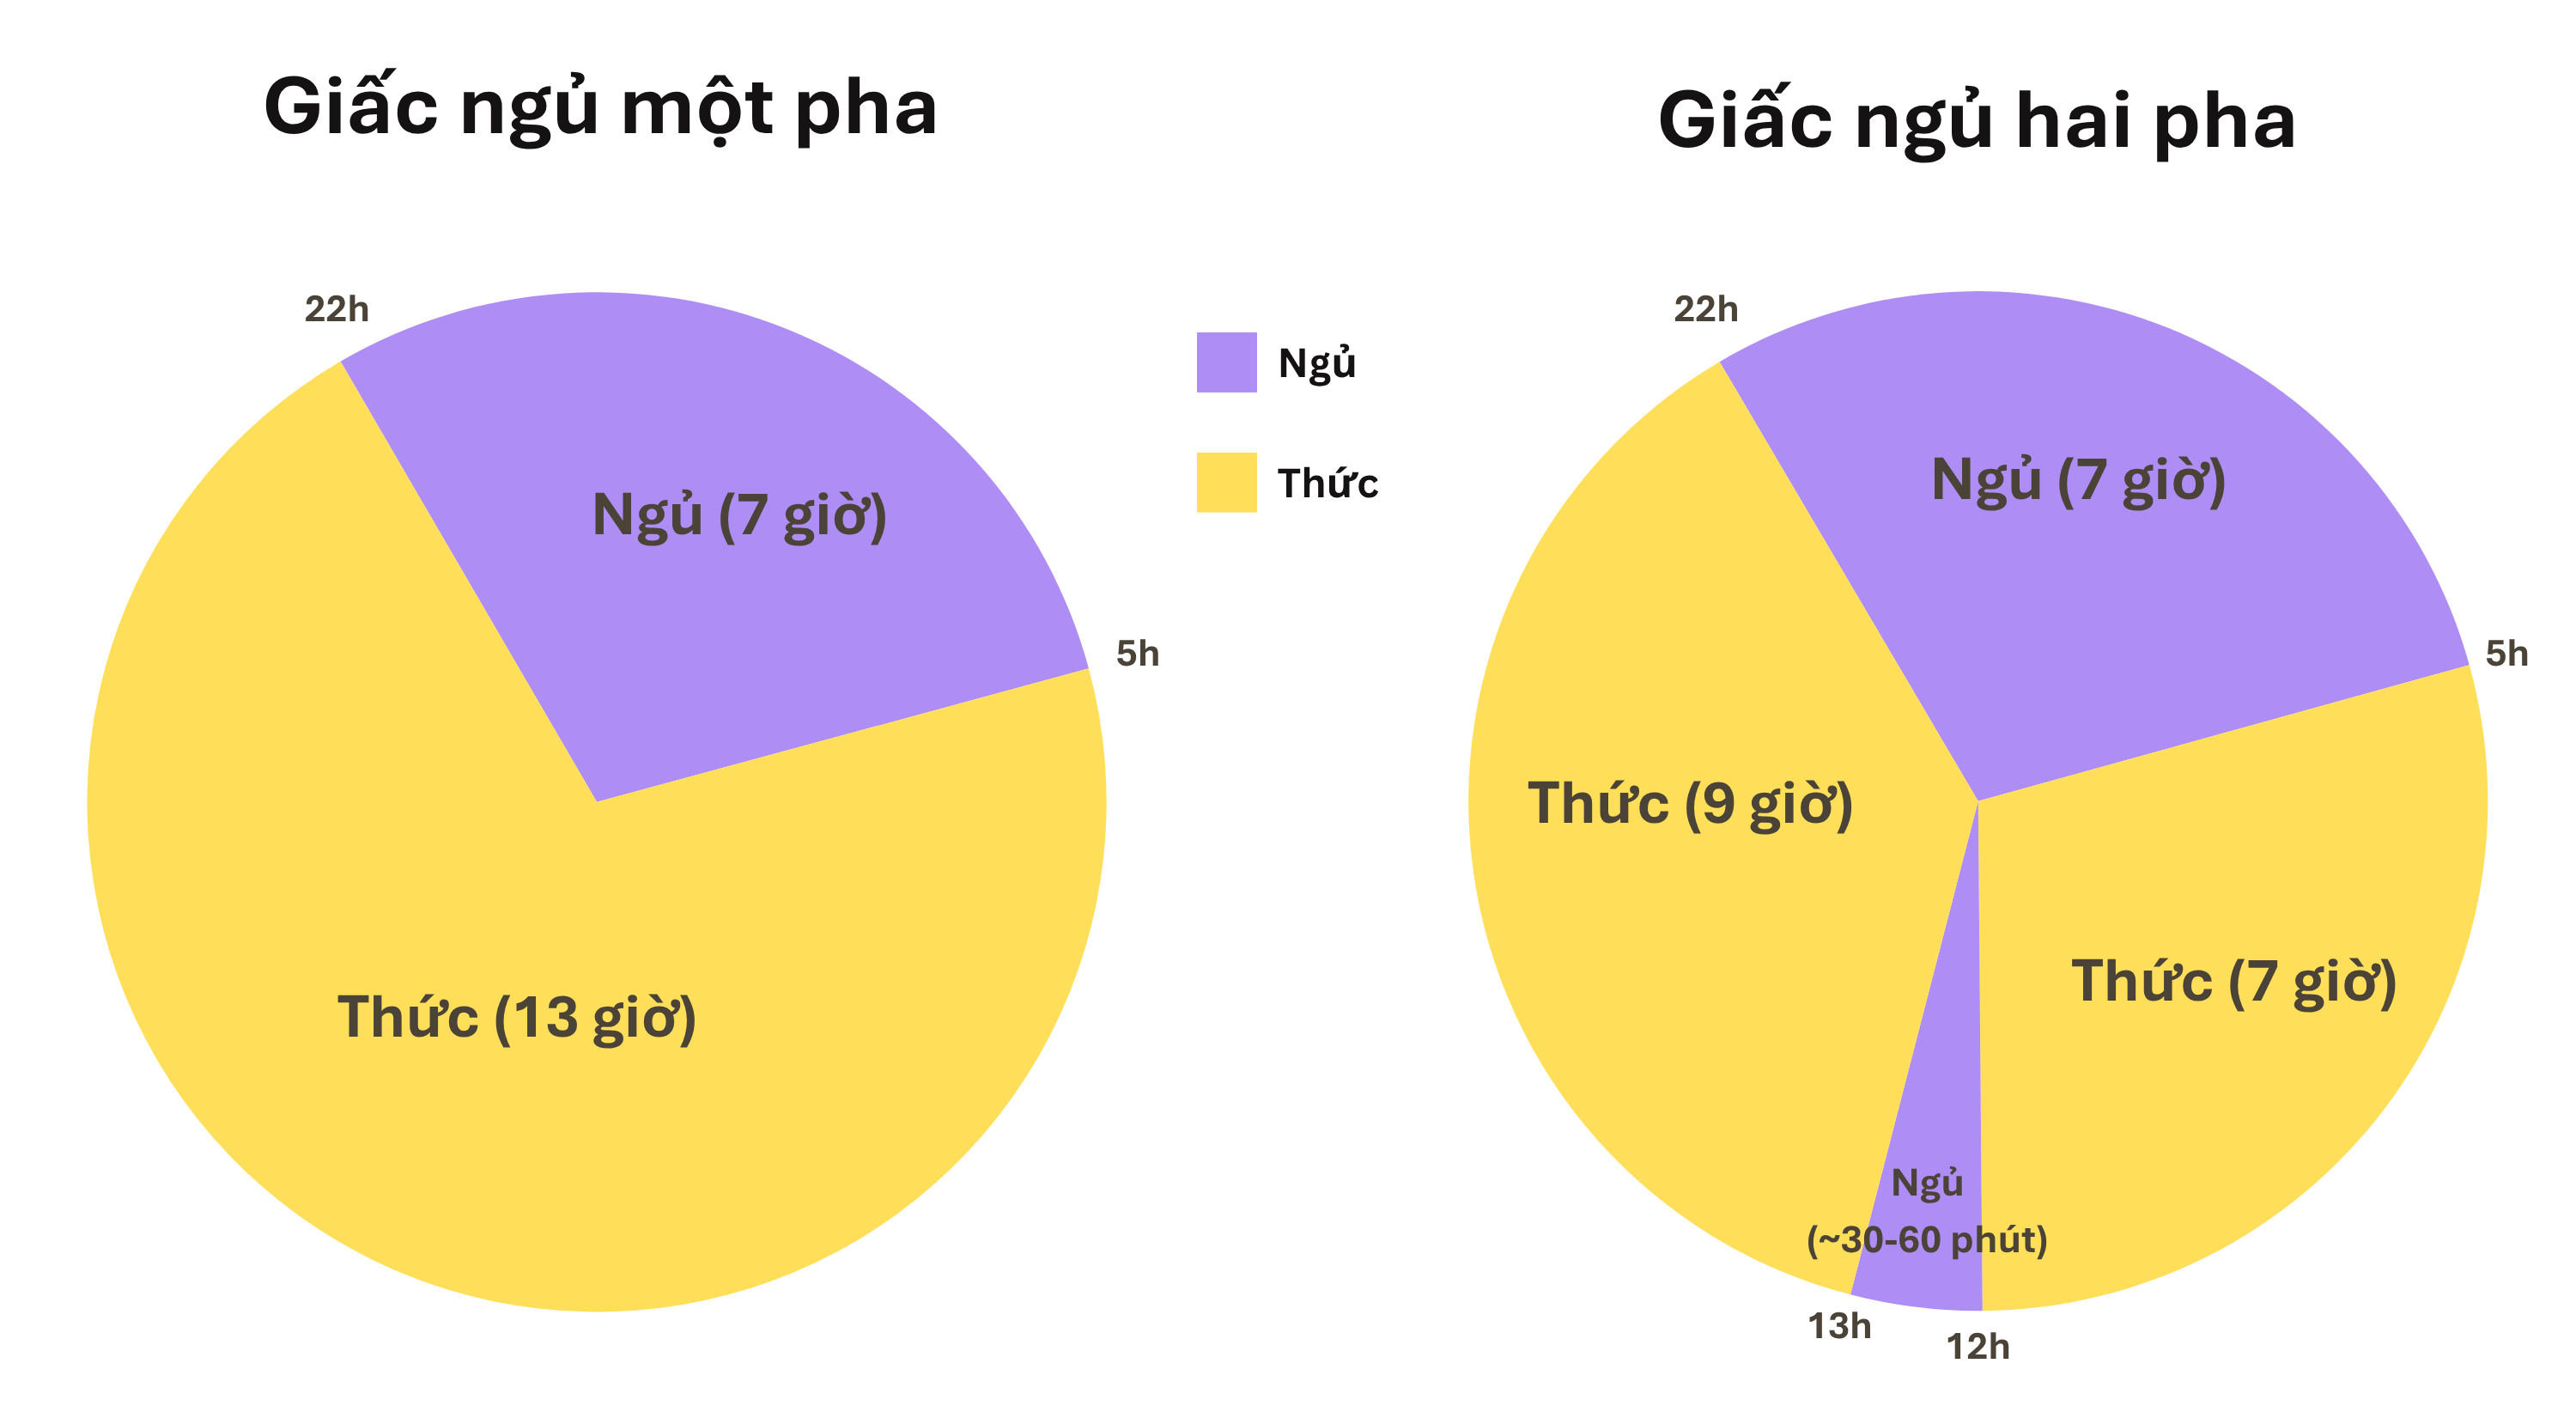
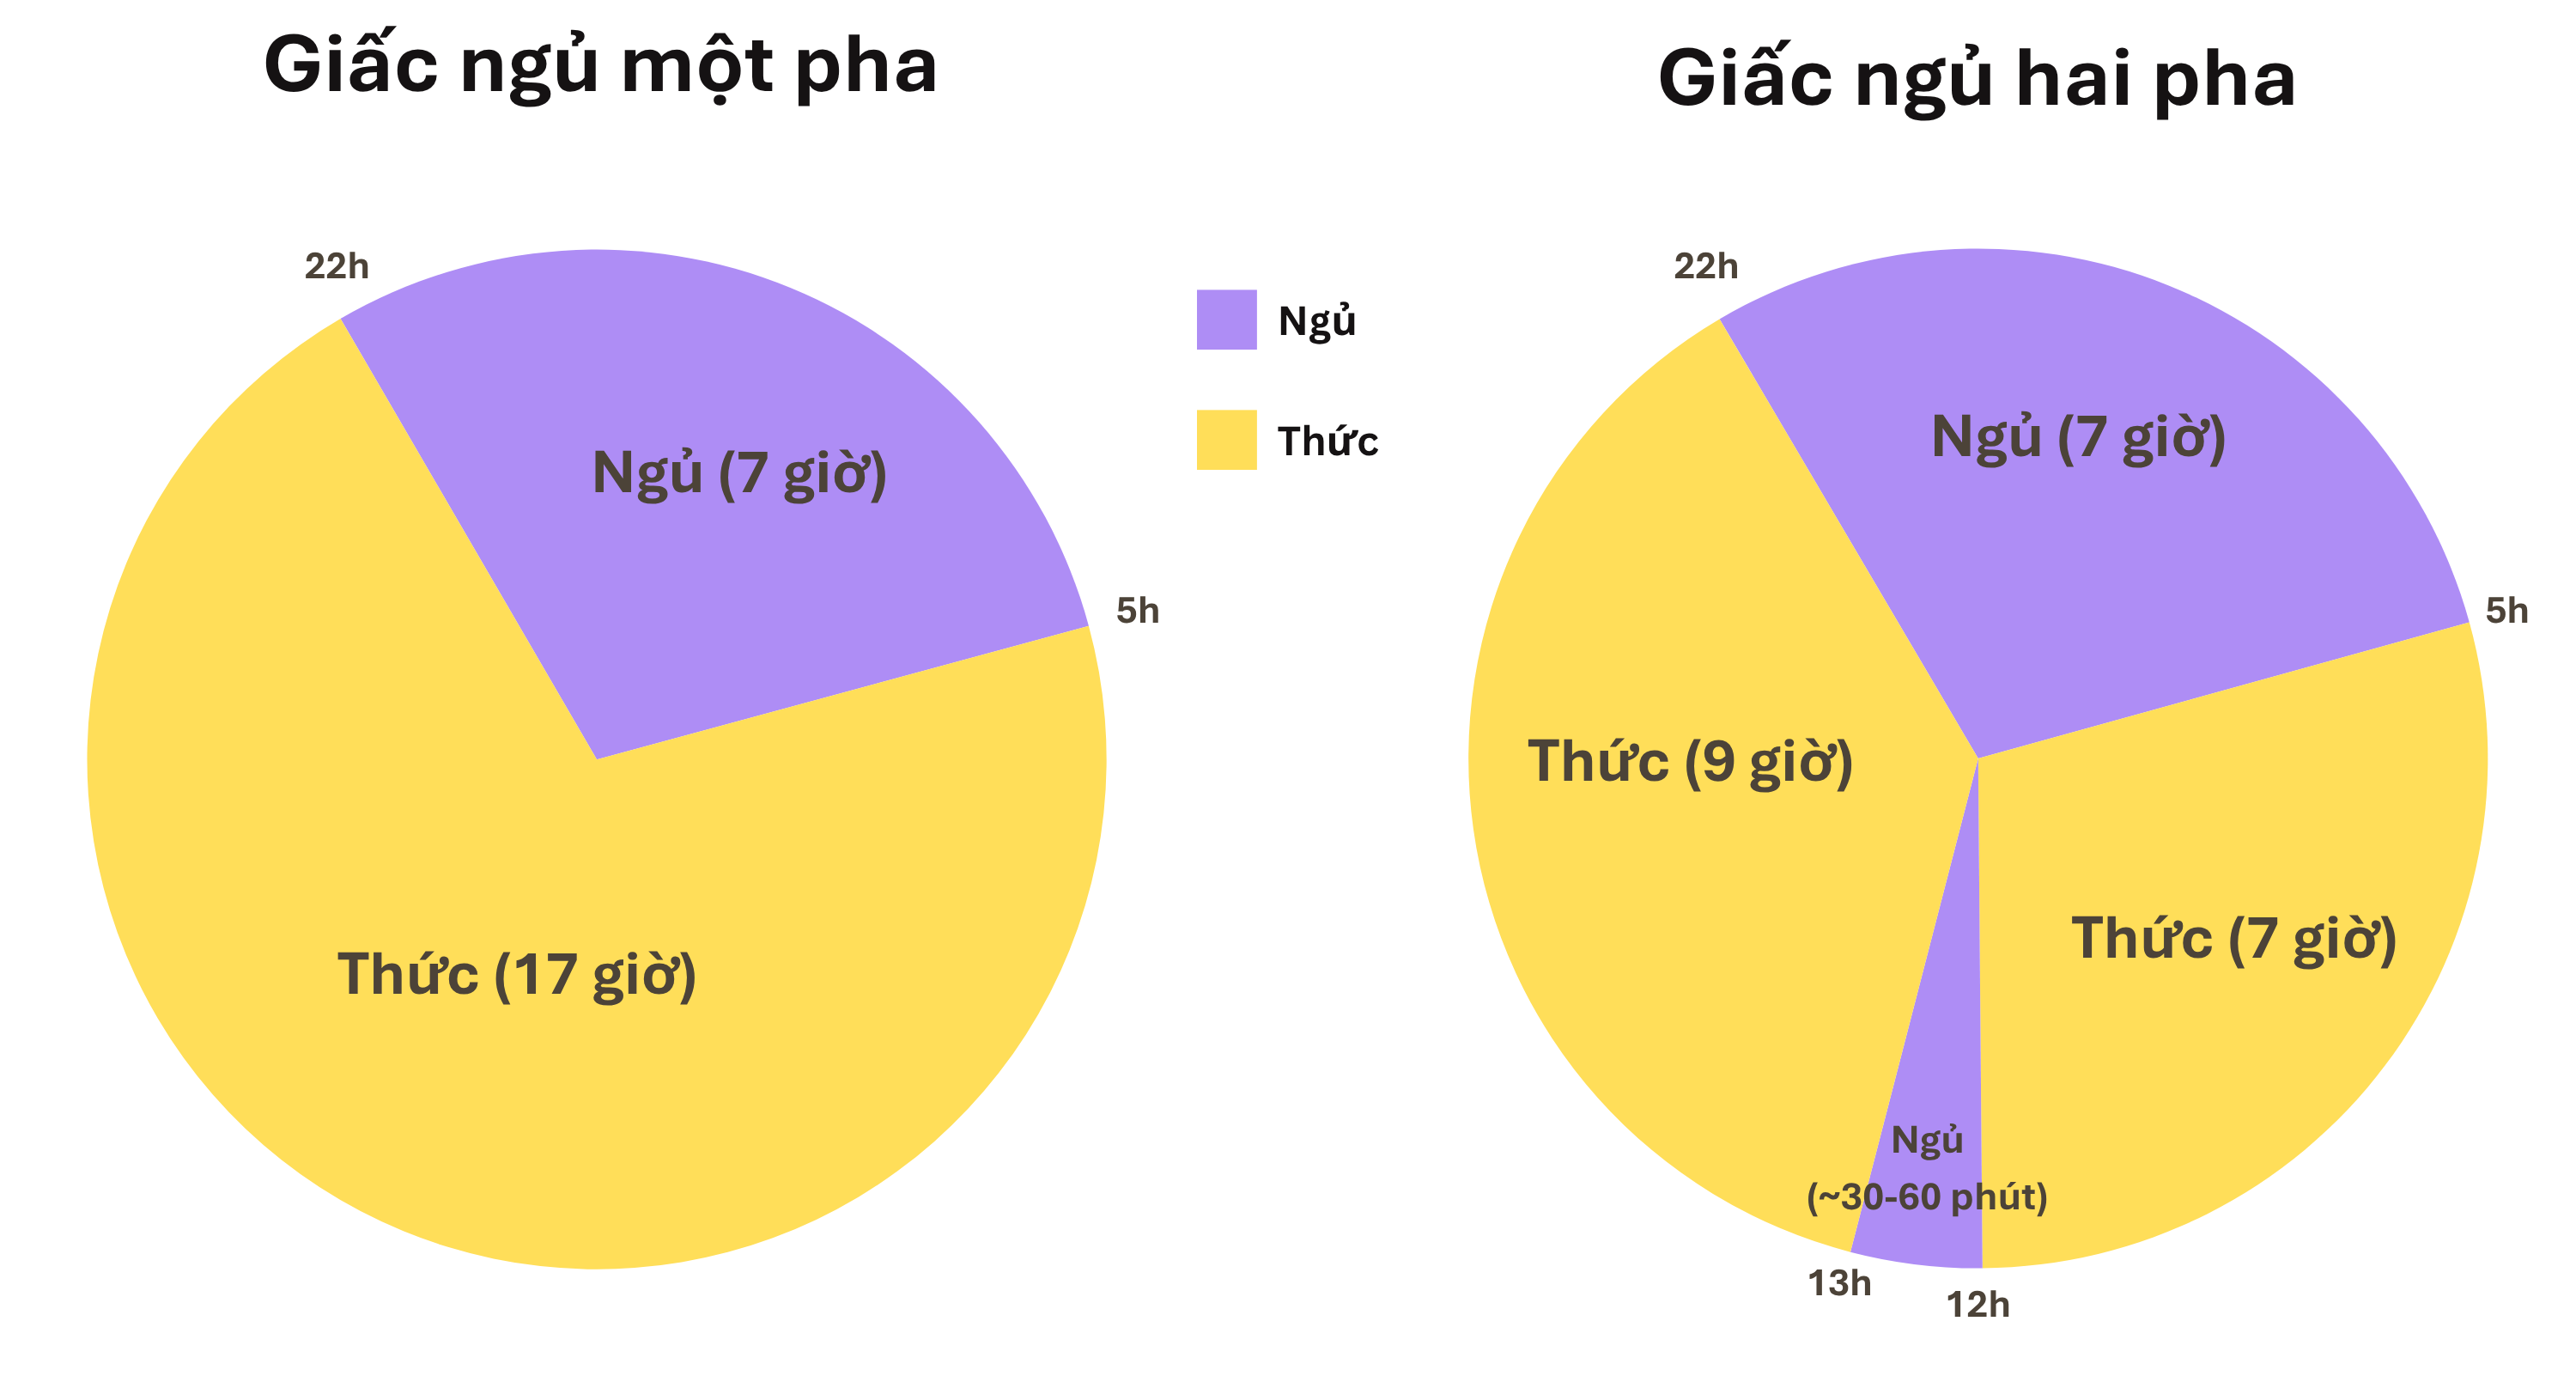
Fixing content 1

diff --git a/docs/TaiSaoChungTaNgu/index.md b/docs/TaiSaoChungTaNgu/index.md
@@ -17,7 +17,7 @@ has_children: true
 
 ## Giấc ngủ là gì?
 
-Giấc ngủ là một trạng thái sinh lý tự nhiên, có tính chu kỳ, trong đó cơ thể giảm hoạt động và mức độ ý thức bị thay đổi đáng kể. Tuy nhiên, gọi giấc ngủ là "nghỉ ngơi hoàn toàn" là không chính xác. Trên thực tế, não bộ trong khi ngủ vẫn hoạt động rất tích cực - thậm chí ở một số giai đoạn còn hoạt động mạnh không kém khi tỉnh táo.
+Giấc ngủ là một trạng thái sinh lý tự nhiên, có tính chu kỳ, trong đó cơ thể giảm hoạt động và mức độ ý thức bị thay đổi đáng kể. Tuy nhiên, gọi giấc ngủ là "nghỉ ngơi hoàn toàn" là không chính xác. Trên thực tế, não bộ trong khi ngủ vẫn hoạt động rất tích cực - thậm chí ở một số giai đoạn còn hoạt động mạnh không kém gì khi tỉnh táo.
 
 ### Mô tả thú vị về giấc ngủ
 
@@ -25,7 +25,7 @@ Từ khi sinh ra cho đến khi qua đời, con người liên tục rơi vào m
 
 Trong lúc cơ thể gần như bất động, tâm trí lại có thể tạo ra những trải nghiệm sống động - đó là giấc mơ. Những hình ảnh, âm thanh và cảm xúc trong mơ đôi khi rất phi logic, nhưng lại có sức ảnh hưởng mạnh đến tâm lý con người.
 
-Điều đáng chú ý là, dù khoa học hiện đại đã tiến rất xa, các nhà nghiên cứu vẫn chưa có một câu trả lời hoàn chỉnh cho câu hỏi: "Tại sao chúng ta cần ngủ?"
+Điều đáng chú ý là, dù khoa học hiện đại đã tiến rất xa, các nhà nghiên cứu vẫn chưa có một câu trả lời hoàn chỉnh cho câu hỏi: *"Tại sao chúng ta cần ngủ?"*.
 
 ### Bộ đặc điểm (dễ thấy) biểu thị cho sự hiện diện của giấc ngủ
 
@@ -65,21 +65,21 @@ Từ góc nhìn tiến hoá, giấc ngủ có vẻ là một "bất lợi" rõ r
 
 Với hàng loạt bất lợi như vậy, lẽ ra giấc ngủ phải bị loại bỏ qua quá trình chọn lọc tự nhiên. Nhưng thực tế hoàn toàn ngược lại: **mọi loài động vật có hệ thần kinh phức tạp đều ngủ, và thiếu ngủ có thể gây hậu quả nghiêm trọng, thậm chí tử vong.**
 
-Điều này dẫn đến kết luận quan trọng: Giấc ngủ phải mang lại những lợi ích sinh học cực kỳ thiết yếu, đủ lớn để "đánh đổi" với các rủi ro của nó.
+Điều này dẫn đến kết luận quan trọng: **Giấc ngủ phải mang lại những lợi ích sinh học cực kỳ thiết yếu, đủ lớn để "đánh đổi" với các rủi ro của nó.**
 
 ---
 
 ## Các giả thuyết về chức năng của giấc ngủ
 
-Một sai lầm phổ biến là cố gắng tìm một câu trả lời duy nhất cho câu hỏi: "Tại sao chúng ta ngủ?".
-Thực tế, **giấc ngủ không có một chức năng, mà là một tập hợp nhiều chức năng đồng thời**.
+Một sai lầm phổ biến là cố gắng tìm một câu trả lời duy nhất cho câu hỏi: *"Tại sao chúng ta ngủ?"*.
+Thực tế, **giấc ngủ không có một chức năng duy nhất, mà là một tập hợp nhiều chức năng đồng thời**.
 
 Dưới đây là một số giả thuyết tiêu biểu:
 - Bảo tồn năng lượng: Giấc ngủ giúp giảm tiêu hao năng lượng khi không cần hoạt động.
 - Phục hồi và sửa chữa cơ thể: Ngủ hỗ trợ tái tạo mô, tăng cường hệ miễn dịch, phục hồi thể chất.
 - Củng cố trí nhớ và tối ưu não bộ: Giấc ngủ giúp xử lý thông tin, học tập và ghi nhớ tốt hơn.
 - Giải phóng / xử lý cảm xúc (giấc mơ): Giấc mơ phản ánh hoặc xử lý các mong muốn, cảm xúc bị kìm nén.
-- Điều chỉnh nhịp sinh học (circadian rhythm): Giấc ngủ giúp đồng bộ cơ thể với chu kỳ ngày–đêm.
+- Điều chỉnh nhịp sinh học (circadian rhythm): Giấc ngủ giúp đồng bộ cơ thể với chu kỳ ngày - đêm.
 
 Nhưng thực ra, giấc ngủ phức tạp hơn thế. Chúng ta ngủ vì một loạt rất nhiều chức năng, dường như không một cơ quan chính nào trong cơ thể, hoặc quá trình nào trong não bộ, mà không được cải thiện tối ưu nhờ giấc ngủ, và bị suy yếu theo hướng bất lợi nếu chúng ta thiếu ngủ.
 

diff --git a/index.md b/index.md
@@ -9,22 +9,22 @@ permalink: /
 
 Sau khi đọc cuốn sách Why We Sleep của giáo sư [Matthew Walker](https://www.sleepfoundation.org/about-us/dr-matthew-walker), tôi nhận thấy mình cần tự tóm tắt lại các thông tin, kiến thức mà tôi cho là hữu ích, đồng thời mở rộng thêm một vài điểm.
 
-Tôi viết bản tóm tắt này để dành cho bản thân tôi và những người tôi quan tâm.
-Mong rằng họ sẽ có cái nhìn rộng và sâu sắc hơn về giấc ngủ, từ đó có những hành động thiết thực để cải thiện chất lượng giấc ngủ của bản thân.
-Và sẽ thật tốt hơn nếu kiến thức đó tiếp tục được lan truyền rộng rãi.
+Tôi viết bản tóm tắt này để dành cho bản thân và những người tôi quan tâm.
+Mong rằng họ sẽ có cái nhìn rộng và sâu sắc hơn về giấc ngủ, từ đó có những hành động thiết thực để cải thiện chất lượng giấc ngủ của chính mình.
+Và sẽ thật tốt nếu những kiến thức này được lan truyền rộng rãi.
 
 Trước khi dành nhiều thời gian để tìm hiểu về giấc ngủ, cách nó hoạt động và tác động thế nào đến cơ thể, bạn hãy đọc [12 lời khuyên quan trọng để có giấc ngủ khỏe mạnh]({{ "/docs/NhungGiaiPhapChoGiacNgu/#12-tips-for-healthy-sleep" | relative_url }}).
 
 Nếu bạn muốn một bản tóm tắt thật sự ngắn gọn, hãy tham khảo [Why We Sleep by Matthew Walker — Book Summary and Notes](https://www.justologist.com/why-we-sleep/).
 
-Và nếu bạn có hứng thú với nghiên cứu của giáo sư Matthew Walker, hãy thử đọc bài báo "[The Role of Sleep in Cognition and Emotion](https://walkerlab.berkeley.edu/reprints/Walker_NYAS_2009.pdf)" được đăng trên tạp chí "Annals of the New York Academy of Sciences", năm 2009. Bài báo tổng hợp các nghiên cứu về vai trò của giấc ngủ đối với trí nhớ, nhận thức và cảm xúc.
+Và nếu bạn có hứng thú với nghiên cứu của giáo sư Matthew Walker, hãy thử đọc bài báo "[The Role of Sleep in Cognition and Emotion](https://walkerlab.berkeley.edu/reprints/Walker_NYAS_2009.pdf)" được đăng trên tạp chí "Annals of the New York Academy of Sciences", năm 2009, gồm các nghiên cứu về vai trò của giấc ngủ đối với trí nhớ, nhận thức và cảm xúc.
 
 
 <figure>
   <img
     src="{{ site.baseurl }}\assets\images\Photo_of_WhyWeSleepBook_and_Matthew Walker.png"
   />
-  <figcaption>Giáo sư Matthew Walker và cuốn sách Why we sleep</figcaption>
+  <figcaption>Giáo sư Matthew Walker và cuốn sách Why We Sleep.</figcaption>
 </figure>
 
 

diff --git a/docs/TaiSaoChungTaNgu/CoCheCuaGiacNgu/index.md b/docs/TaiSaoChungTaNgu/CoCheCuaGiacNgu/index.md
@@ -1,7 +1,7 @@
 ---
 title: Giấc ngủ hoạt động thế nào?
 parent: Tại sao chúng ta ngủ?
-nav_order: 2
+nav_order: 3
 has_children: true
 ---
 